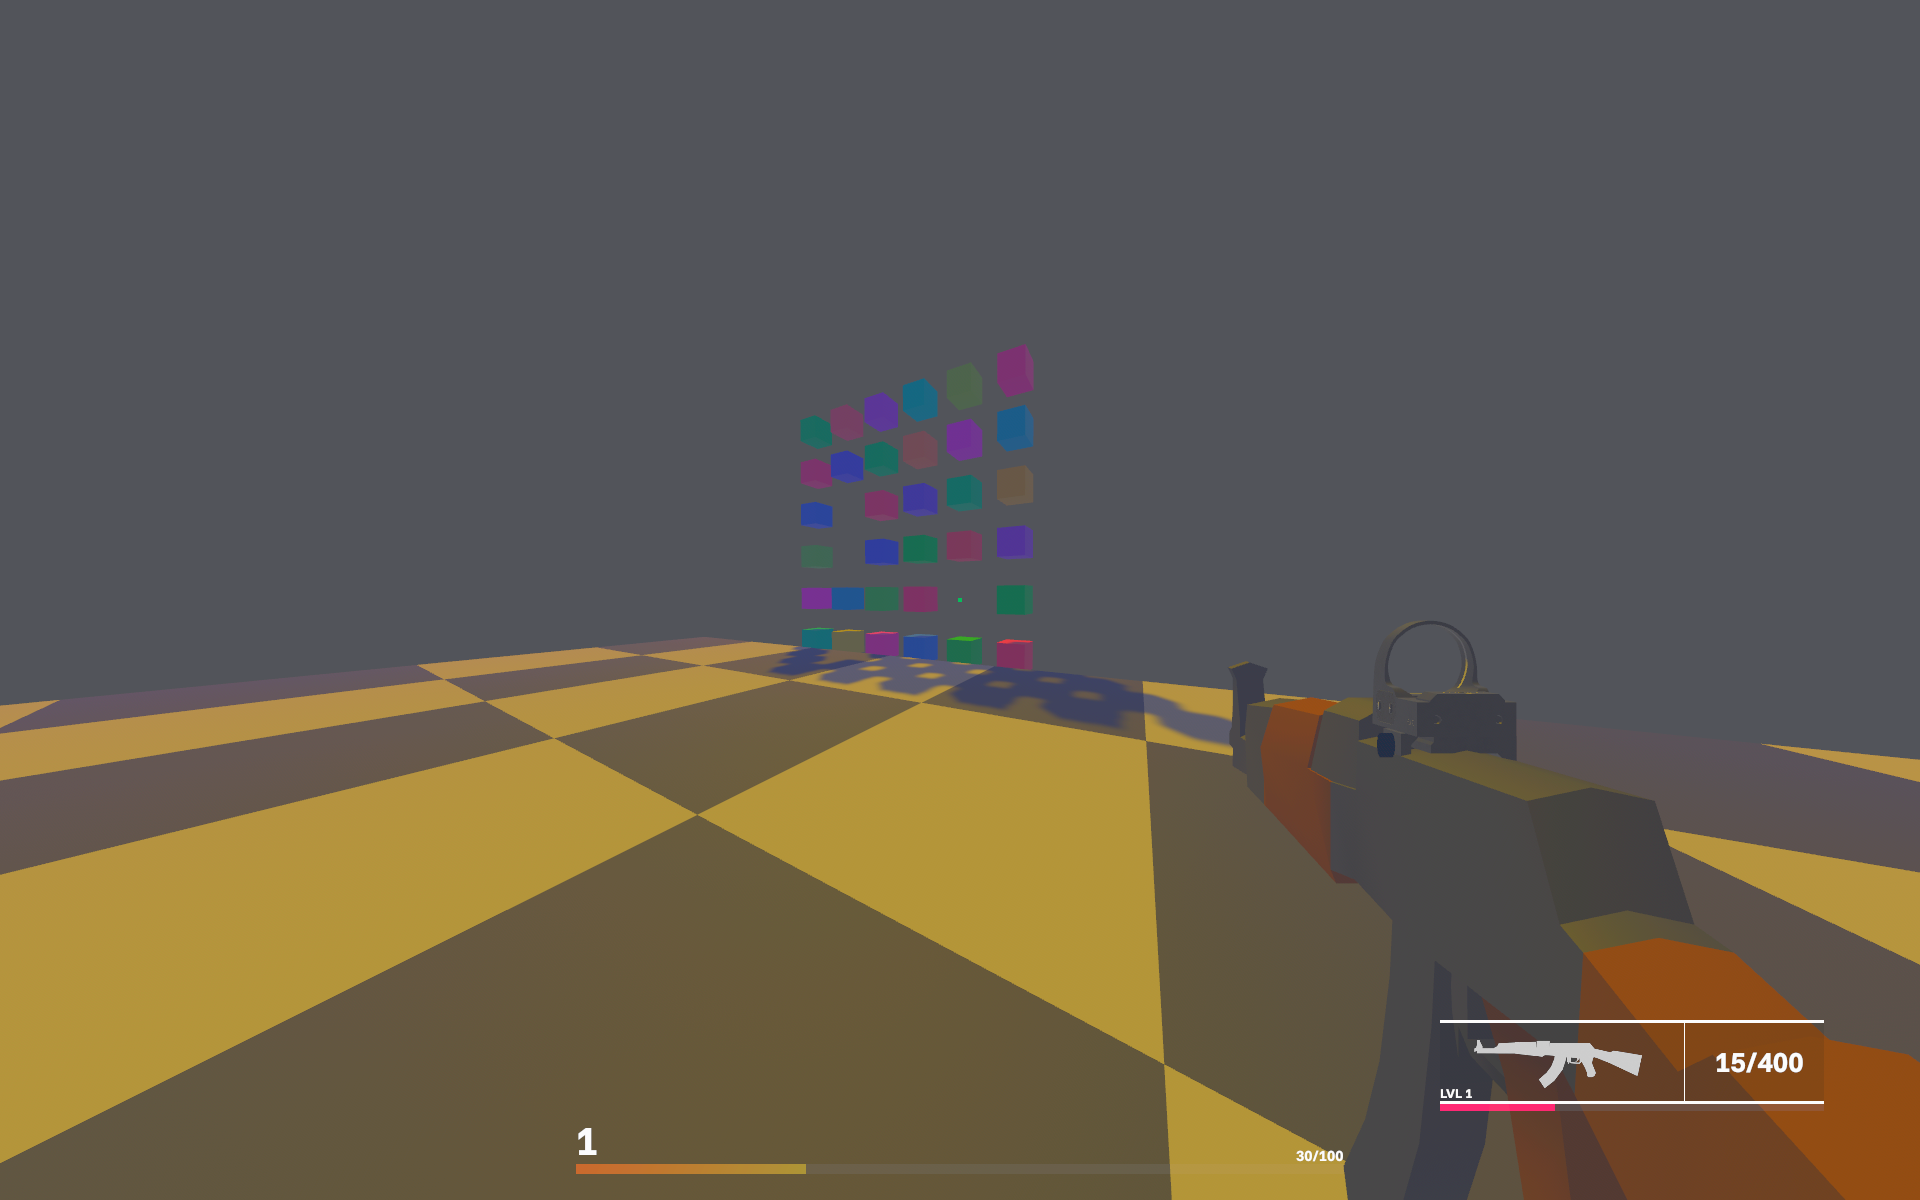
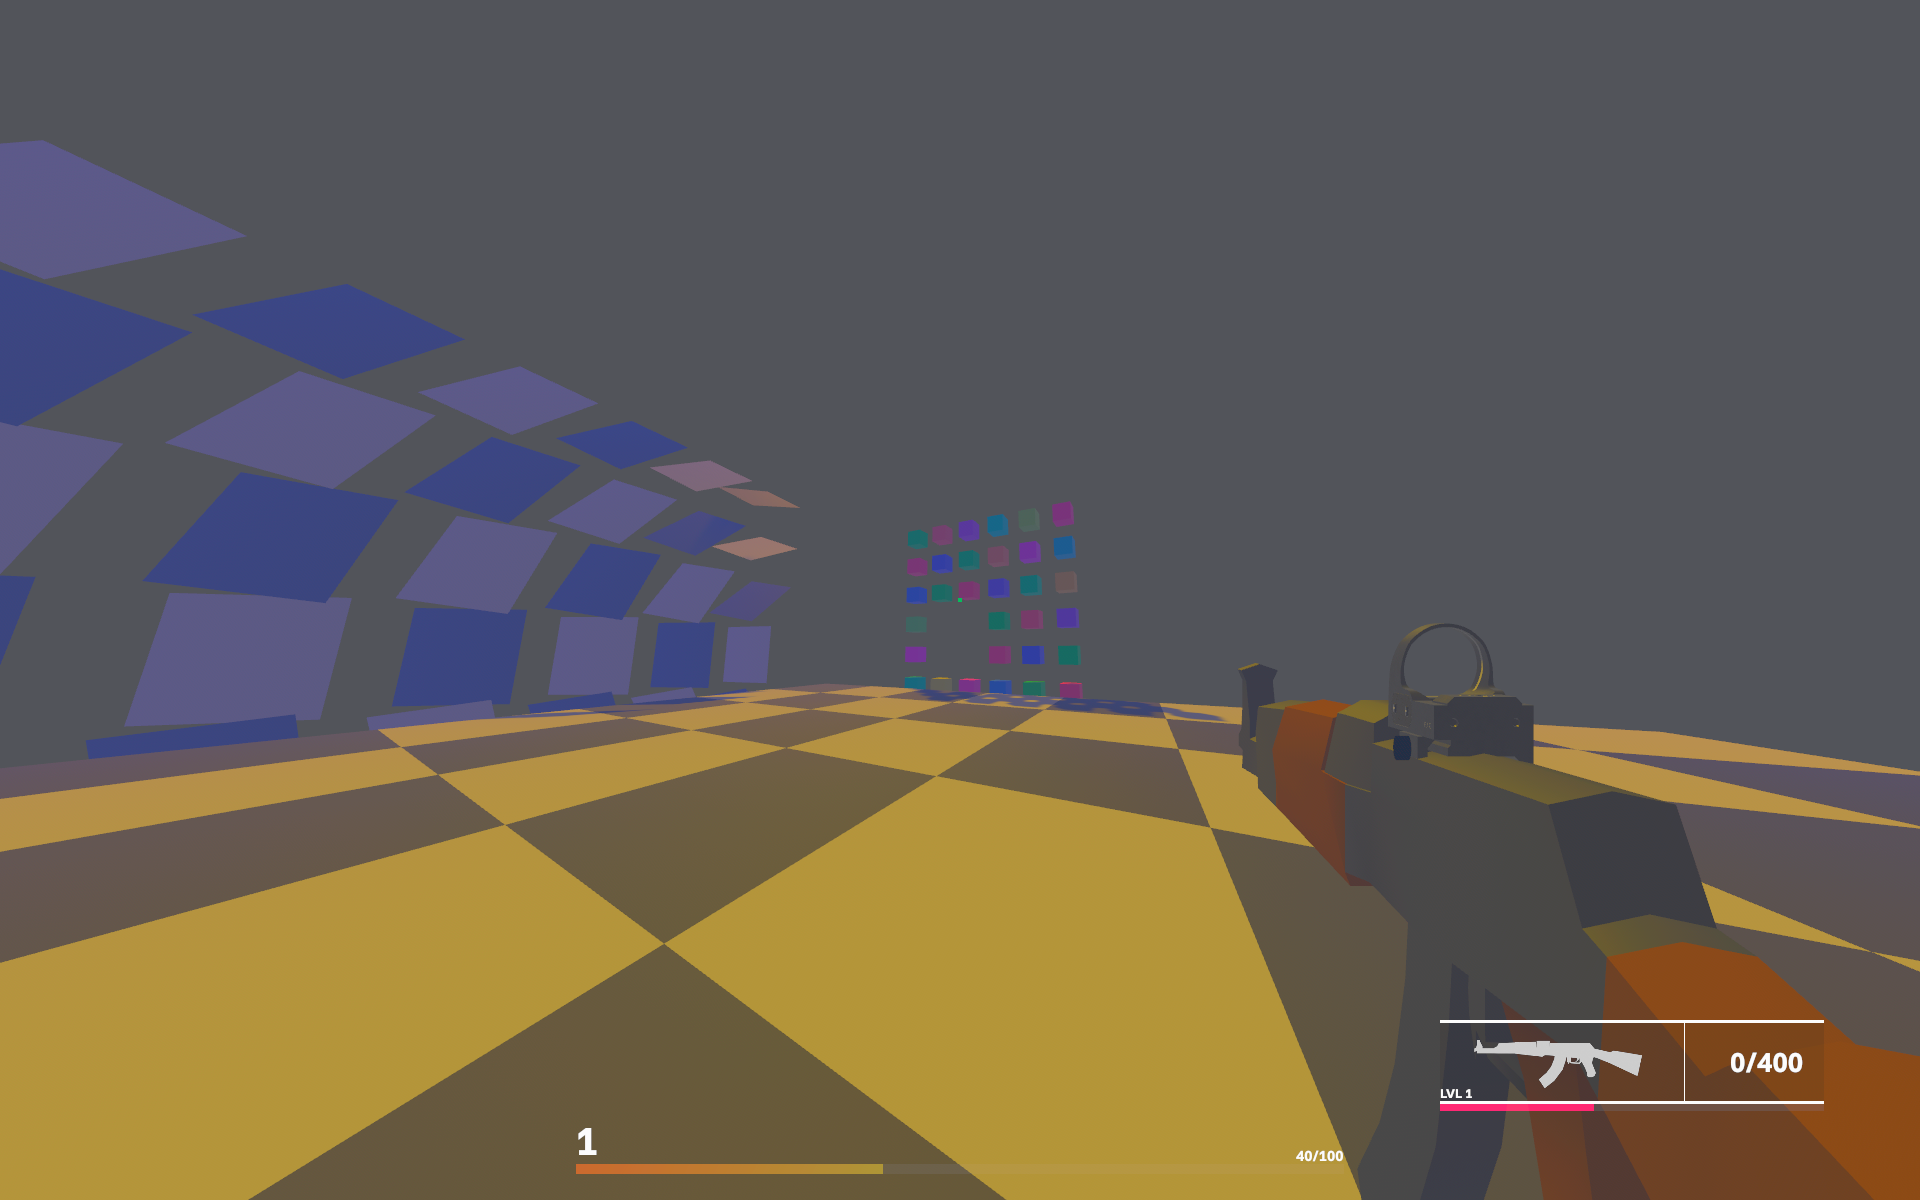
Read me change image

diff --git a/src/world/systems.rs b/src/world/systems.rs
@@ -42,6 +42,21 @@ pub fn spawn_world_model(
             ));
         }
     }
+
+    for y in -4..4 {
+        for z in -30..0 {
+            commands.spawn((
+                Mesh3d(plane_mesh.clone()),
+                MeshMaterial3d(if (y + z) % 2 == 0 {
+                    black_material.clone()
+                } else {
+                    white_material.clone()
+                }),
+                Transform::from_xyz(10.0, y as f32 * 2.0, z as f32 * 2.0)
+                    .looking_at(-Vec3::X, -Vec3::X),
+            ));
+        }
+    }
 }
 
 pub fn spawn_sun_light(mut commands: Commands) {

diff --git a/README.md b/README.md
@@ -2,14 +2,18 @@
 
 ![cover](cover.png)
 
+### A Roguelike first person shooter with incremental damage and buffs
+### Inspired from Cookie Clicker, Vampire Survivors, Borderlands and Turok
+
 Current build has:
 
 - Animations
 - Smooth transitions between animations
-- Asset loader
+- GLTF Asset loader
 - Add/Change attachements to the gun
 - XP system
 - Hit scan bullets
+- Deterministic recoil
 - Player movement
   - Crouching
   - Sprinting
@@ -21,3 +25,9 @@ Current build has:
   - Hitmark
   - Damage indicator
   - XP
+
+Tools used:
+
+- Bevy Rust 
+- Blender
+- Neovim
